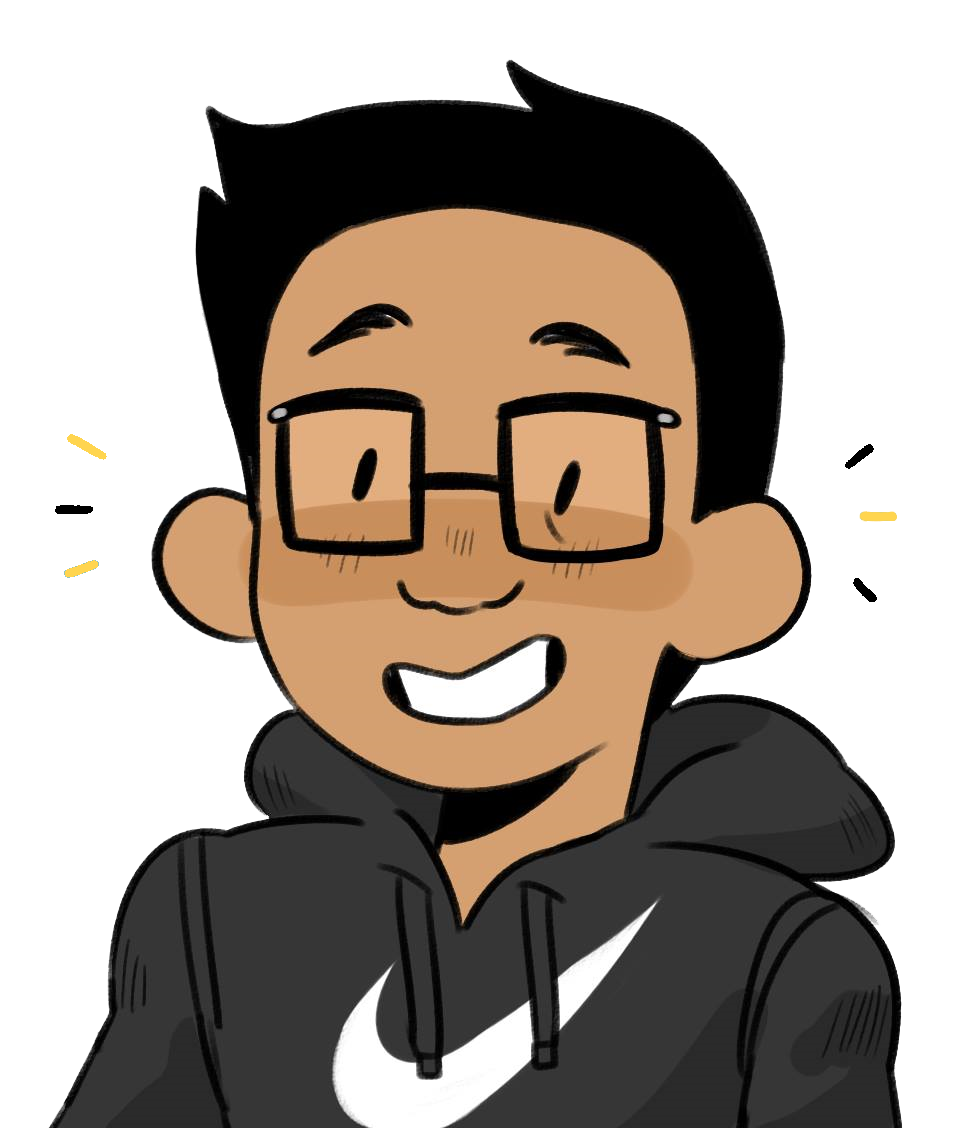
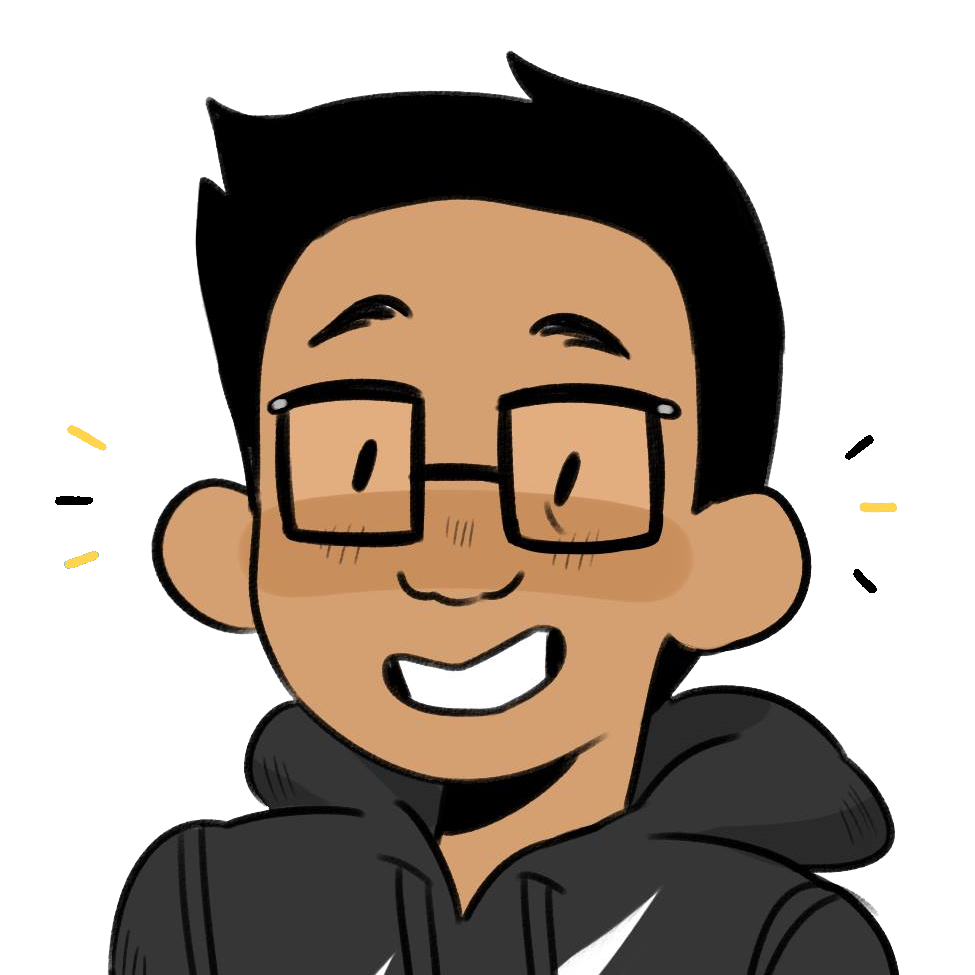
Add styles to about page

diff --git a/src/pages/about.jsx b/src/pages/about.jsx
@@ -28,9 +28,9 @@ const Container = styled.div`
   font-family: 'PT Serif', 'Times', serif;
 
   ${mediaSize.tablet`
-    grid-template-columns: 60% 30%;
+    grid-template-columns: 50% 35%;
     grid-template-rows: auto;
-    grid-column-gap: 10%;
+    grid-column-gap: 15%;
     grid-template-areas: "pic stats"
                          "skills stats"
                          "interests stats"
@@ -51,13 +51,52 @@ const AboutPic = styled.div`
   width: 100%;
   justify-self: center;
   align-self: center;
+  position: relative;
+  overflow: visible;
+  padding-bottom: 2vw;
+
+  &:before {
+    content: '';
+    position: absolute;
+    top: 4vw;
+    left: 4vw;
+    width: 18vw;
+    height: 18vw;
+    background-color: #A6CAF5;
+    opacity: 0.65;
+
+    ${mediaSize.tablet`
+      top: 7vw;
+      left: 5vw;
+      width: 28vw;
+      height: 28vw;
+    `}
+
+    ${mediaSize.phone`
+      top: 13vw;
+      left: 8vw;
+      width: 55vw;
+      height: 55vw;
+    `};
+  }
+
 
   ${mediaSize.tablet`
     width: 90%;
     padding-top: 0.5em;
     padding-bottom: 1em;
     justify-self: center;
+    left: -5vw;
   `};
+
+  ${mediaSize.phone`
+    left: -5vw;
+  `};
+`;
+
+const AboutImg = styled(Img)`
+  max-width: 100%;
+  max-height: 100%;
 `;
 
 const AboutStats = styled.div`
@@ -269,7 +308,7 @@ class AboutPage extends React.Component {
         <div style={this.props.transition && this.props.transition.style}>
           <Container>
             <AboutPic>
-              <Img sizes={this.props.data.profileImage.sizes} />
+              <AboutImg sizes={this.props.data.profileImage.sizes} />
             </AboutPic>
 
             <AboutStats>
